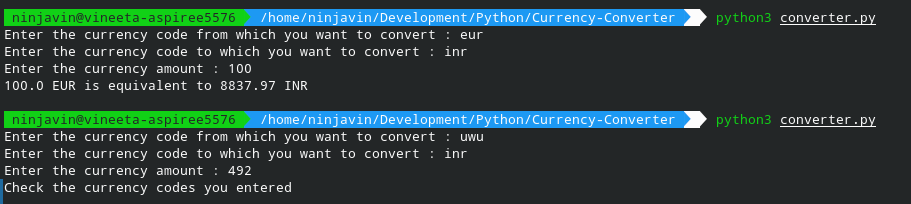
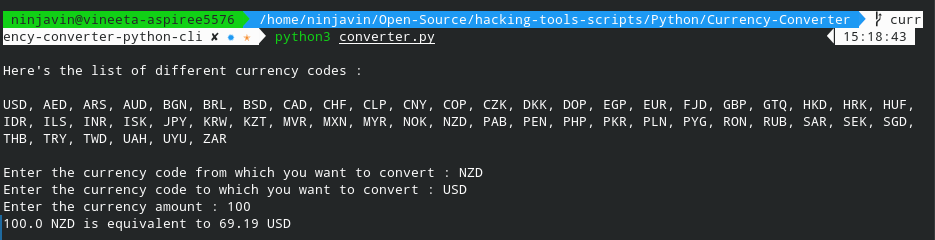
Changes Made

Changed region(s): [[0.0, 0.2353, 0.9835, 0.9706], [0.0, 0.0294, 1.0, 0.2059], [0.4918, 0.2353, 0.5225, 0.2647]]

diff --git a/Python/Currency-Converter/converter.py b/Python/Currency-Converter/converter.py
@@ -3,7 +3,15 @@ api = "https://api.exchangerate-api.com/v4/latest/USD"
 # Getting Currency Rates from the API
 rates = requests.get(api).json()['rates']
 # Currency from which we need to convert
-from_currency = input("Enter the currency code from which you want to convert : ").upper()
+i = 0
+print("\nHere's the list of different currency codes : \n")
+for rate in rates:
+	if(i == len(rates)-1):
+		print(rate)
+	else:
+		print(rate, end=", ")
+	i = i+1
+from_currency = input("\nEnter the currency code from which you want to convert : ").upper()
 # Currency to which we are converting
 to_currency = input("Enter the currency code to which you want to convert : ").upper()
 value = float(input("Enter the currency amount : "))
